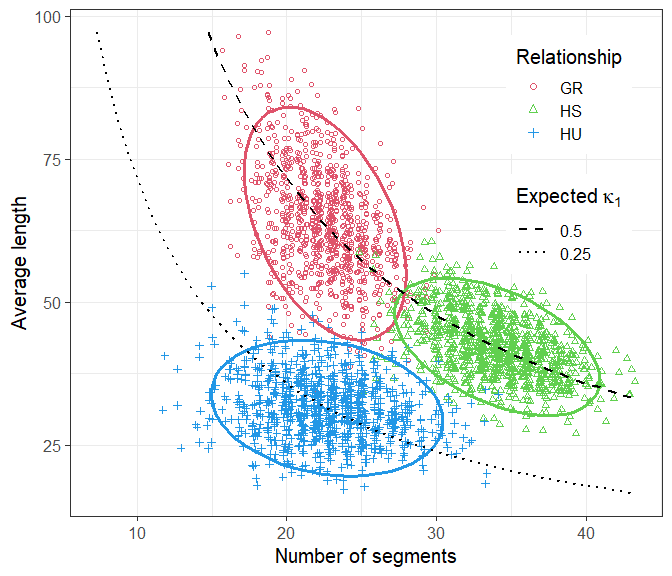
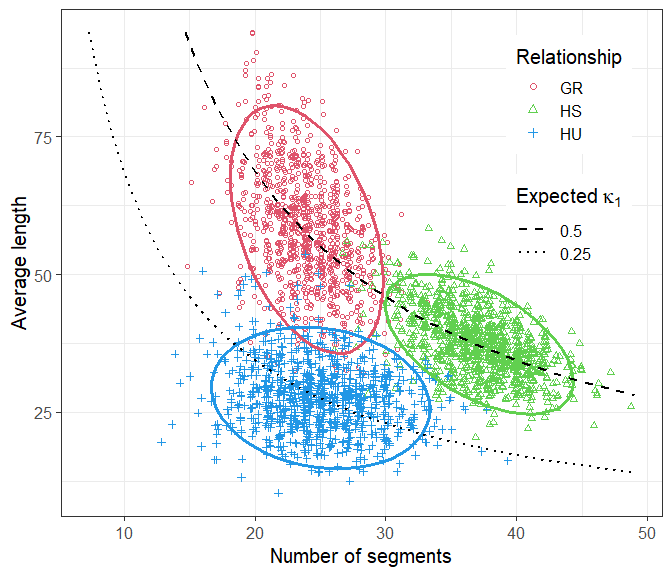
Update REAMDE

diff --git a/README.md b/README.md
@@ -81,15 +81,15 @@ Next, we use `ibdsim()` to produce 1000 simulations of the underlying
 IBD pattern in the entire pedigree.
 
 ``` r
-s = ibdsim(x, N = 1000, map = "uniform.sex.spec")
+s = ibdsim(x, N = 1000, map = loadMap("decode19"))
 #> Simulation parameters:
-#> No. of sims: 1000
-#> Chromosomes: 1-22
-#> Total len  : 2864.3 Mb
-#> Rec. model : chi
-#> Target ids : 1-7
-#> Skip recomb: -
-#> Total time used: 14.8 secs
+#> # simulations: 1000
+#> Chromosomes  : 1-22
+#> Genome length: 2753.931711 Mb
+#> Recomb model : chi
+#> Target indivs: 1-7
+#> Skip recomb  : -
+#> Total time used: 44.9 secs
 ```
 
 The `plotSegmentDistribution()` function, with the option `type =
